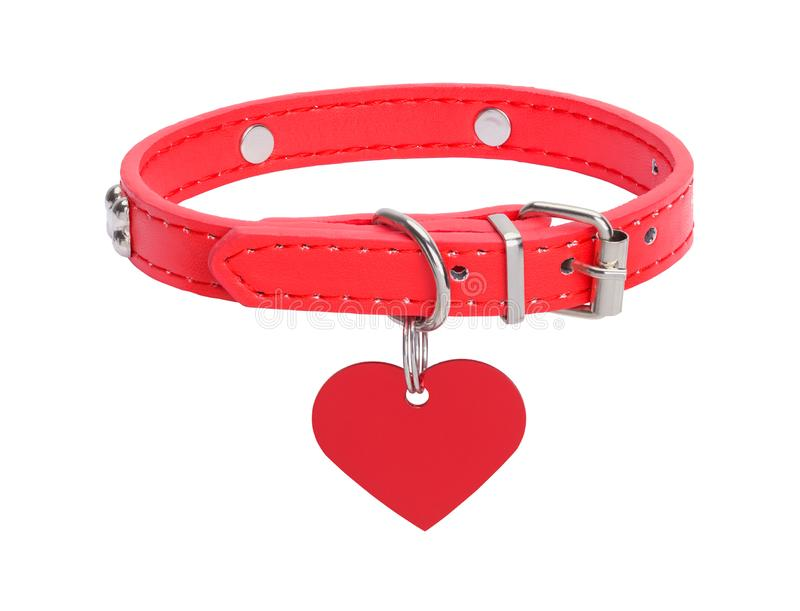
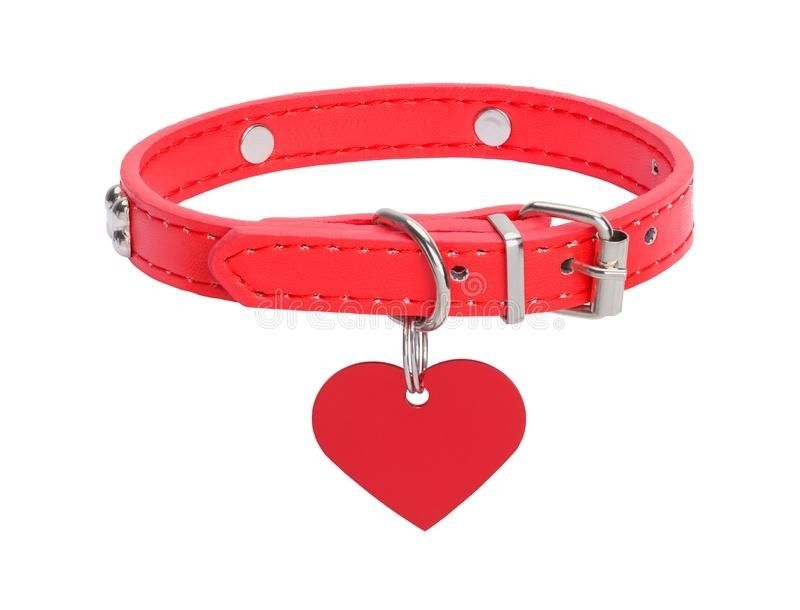
Resized, refactored and styled service images

diff --git a/index.html b/index.html
@@ -1,140 +1,145 @@
 <!DOCTYPE html>
 <html lang="en" dir="ltr">
-  <head>
-    <meta charset="utf-8">
-    <link rel="stylesheet" href="styles.css">
-    <title>Ruff Cuts</title>
-  </head>
-  <body>
 
-    <div class="header">
-      <img id="logo" src="Images/Logo.png" width="30%" alt="Ruff Cuts Logo">
-    </div>
+<head>
+  <meta charset="utf-8">
+  <link rel="stylesheet" href="styles.css">
+  <title>Ruff Cuts</title>
+</head>
 
-    <div id="navBar">
-      <h1 class="bisName">Ruff Cutts</h1>
-      <a class="active" href="index.html">Home</a>
-      <a href="javascript:void(0)">Services</a>
-      <a href="javascript:void(0)">Shop</a>
-      <a href="javascript:void(0)">About</a>
-      <a style="float:right" href="timetable.html">Book</a>
-    </div>
+<body>
 
-    <div class="content">
-      <img id="backgroundImage" src="Images/Landing.jpg" width="100%" alt="Dog On Sand Dune">
-      <div class="loginBackground">
-        <h1 id="loginCTA">Login!</h1>
-        <div class="loginForm">
-          <form class="loginInfo" action="index.html" method="post">
-            <div class="elem-group">
-              <label for="email">Your Email</label>
-              <input type="email" id="email" name="visitor_email" placeholder="Email">
-            </div>
-            <div class="elem-group">
-              <label for="name">Password</label>
-              <input type="password" id="name" name="visitor_password" placeholder="Password" pattern=[A-Z\sa-z]{3,15}>
-            </div>
-          </form>
+  <div class="header">
+    <img id="logo" src="Images/Logo.png" width="30%" alt="Ruff Cuts Logo">
+  </div>
 
-          <div class="loginButton">
-            <button type="button" name="button">Log in</button>
+  <div id="navBar">
+    <h1 class="bisName">Ruff Cutts</h1>
+    <a class="active" href="index.html">Home</a>
+    <a href="javascript:void(0)">Services</a>
+    <a href="javascript:void(0)">Shop</a>
+    <a href="javascript:void(0)">About</a>
+    <a style="float:right" href="timetable.html">Book</a>
+  </div>
+
+  <div class="content">
+    <img id="backgroundImage" src="Images/Landing.jpg" width="100%" alt="Dog On Sand Dune">
+    <div class="loginBackground">
+      <h1 id="loginCTA">Login!</h1>
+      <div class="loginForm">
+        <form class="loginInfo" action="index.html" method="post">
+          <div class="elem-group">
+            <label for="email">Your Email</label>
+            <input type="email" id="email" name="visitor_email" placeholder="Email">
           </div>
+          <div class="elem-group">
+            <label for="name">Password</label>
+            <input type="password" id="name" name="visitor_password" placeholder="Password" pattern=[A-Z\sa-z]{3,15}>
+          </div>
+        </form>
+
+        <div class="loginButton">
+          <button type="button" name="button">Log in</button>
         </div>
       </div>
     </div>
+  </div>
 
-    <script>
-      window.onscroll = function() {myFunction()};
+  <script>
+    window.onscroll = function() {
+      myFunction()
+    };
 
-      var navbar = document.getElementById("navBar");
-      var sticky = navbar.offsetTop;
+    var navbar = document.getElementById("navBar");
+    var sticky = navbar.offsetTop;
 
-      function myFunction() {
-        if (window.pageYOffset >= sticky) {
-          navBar.classList.add("sticky")
-        } else {
-          navBar.classList.remove("sticky");
-        }
+    function myFunction() {
+      if (window.pageYOffset >= sticky) {
+        navBar.classList.add("sticky")
+      } else {
+        navBar.classList.remove("sticky");
       }
-    </script>
+    }
+  </script>
 
-    <div class="services">
-      <h2>Services</h2>
+  <div class="services">
+    <h2>Services</h2>
+    <table cellspacing="25">
+      <tr>
+        <td>
+          <img src="Images/Dog1.jpg" alt="Golden Retriever" width="90%">
+          <p>We do golden dogs</p>
+        </td>
+        <td>
+          <img src="Images/Dog2.jpeg" alt="Forest" width="90%">
+          <p>We do fluffy dogs</p>
+        </td>
+        <td>
+          <img src="Images/Dog3.jpeg" alt="Northern Lights" width="90%">
+          <p>We do scruffy dogs</p>
+        </td>
+        <td>
+          <img src="Images/Dog4.jpg" alt="Forest" width="90%">
+          <p>We do all puppy dogs</p>
+        </td>
+      </tr>
+    </table>
+  </div>
 
-<div id="alignGallery">
-      <div class="gallery">
-    <img src="Images/Dog1.jpeg" alt="Golden Retriever" width="90%">
-  </a>
-  <div class="desc">We do golden dogs</div>
-</div>
+  <div class="shop">
+    <h2>Shop</h2>
 
-<div class="gallery">
-    <img src="Images/Dog2.jpeg" alt="Forest" width="90%" >
-  </a>
-  <div class="desc">We do fluffy dogs</div>
-</div>
+    <div id="alignGallery">
+      <table cellspacing="25">
+    <tr>
+      <td>
+        <img src="Images/DogToy.jpg" alt="Golden Retriever" width="90%">
+        <p>Dog Toy</p>
+      </td>
+      <td>
+        <img src="Images/DogBowl.jpg" alt="Forest" width="90%">
+        <p>Dog Bowl</p>
+      </td>
+      <td>
+        <img src="Images/DogCollar.jpg" alt="Northern Lights" width="90%">
+        <p>Dog collor</p>
+      </td>
+      <td>
+        <img src="Images/DogBrush.jpg" alt="Forest" width="90%">
+        <p>Dog brush</p>
+      </td>
+    </tr>
+  </table>
+  </div>
 
-<div class="gallery">
-    <img src="Images/Dog3.jpeg" alt="Northern Lights" width="90%">
-  </a>
-  <div class="desc">We do scruffy dogs</div>
-</div>
-
-<div class="gallery">
-    <img src="Images/Dog4.webp" alt="Forest" width="90%">
-  </a>
-  <div class="desc">Treat your pup with a Ruff Cut</div>
-</div>
-</div>
+  <div class="about">
+    <h2 style="text-align: center;">About</h2>
+    <img src="Images/HouseGrooming.jpeg" alt="In house grooming" width="40%" height="50%">
+    <div style="float: right">
+      <h4 style="color: black">Can't make it in?</h4>
+      <p style="color: black">We also do in house Grooming!</p>
     </div>
+  </div>
 
-<div class="shop">
-  <h2>Shop</h2>
-
-  <div id="alignGallery">
-        <div class="gallery">
-      <img src="Images/DogToy.png" alt="Golden Retriever" width="90%">
+  <div class="footer">
+    <h3 style="padding-top: 2.5%; padding-left: 45%;">Site Map</h3>
+    <a href="index.html">
+      <h6>Home</h6>
     </a>
-    <div class="desc">Dog Toy</div>
-  </div>
-
-  <div class="gallery">
-      <img src="Images/DogBowl.jpg" alt="Forest" width="90%">
+    <a href="#Services">
+      <h6>Services</h6>
     </a>
-    <div class="desc">Dog Bowl</div>
-  </div>
-
-  <div class="gallery">
-      <img src="Images/DogCollar.jpg" alt="Northern Lights" width="90%">
+    <a href="#Shop">
+      <h6>Shop</h6>
     </a>
-    <div class="desc">Dog collor</div>
-  </div>
-
-  <div class="gallery">
-      <img src="Images/DogBrush.jpg" alt="Forest" width="90%">
+    <a href="#About">
+      <h6>About</h6>
     </a>
-    <div class="desc">Dog brush</div>
+    <a href="timetable.html">
+      <h6>Book</h6>
+    </a>
   </div>
-  </div>
-</div>
 
-<div class="about">
-  <h2 style="text-align: center;">About</h2>
-  <img src="Images/HouseGrooming.jpeg" alt="In house grooming" width="40%" height="50%">
-  <div style="float: right">
-  <h4 style="color: black">Can't make it in?</h4>
-  <p style="color: black">We also do in house Grooming!</p>
-</div>
-</div>
+</body>
 
-<div class="footer">
-  <h3 style="padding-top: 2.5%; padding-left: 45%;">Site Map</h3>
-  <a href="index.html"><h6>Home</h6></a>
-  <a href="#Services"><h6>Services</h6></a>
-  <a href="#Shop"><h6>Shop</h6></a>
-  <a href="#About"><h6>About</h6></a>
-  <a href="timetable.html"><h6>Book</h6></a>
-</div>
-
-  </body>
 </html>

diff --git a/styles.css b/styles.css
@@ -296,3 +296,10 @@ button:hover {
   font-size: 600%;
   text-shadow: 2px 2px rgba(0, 0, 0, 0.2);
 }
+
+td{
+  box-shadow: 2px 2px 2px 2px rgba(0, 0, 0, 0.2);
+  padding-top: 1%;
+  background-color: white;
+  color: #ffb5b5;
+}
